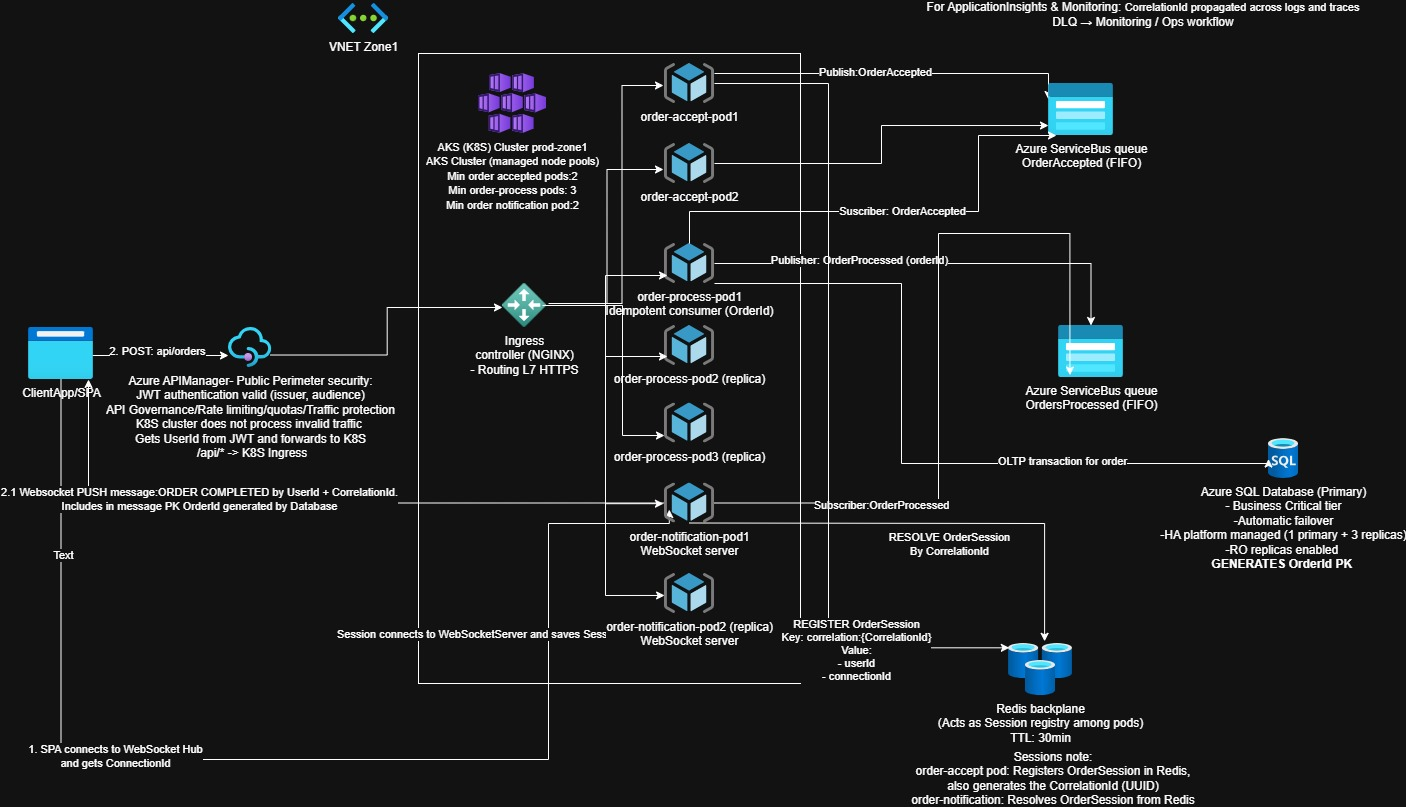
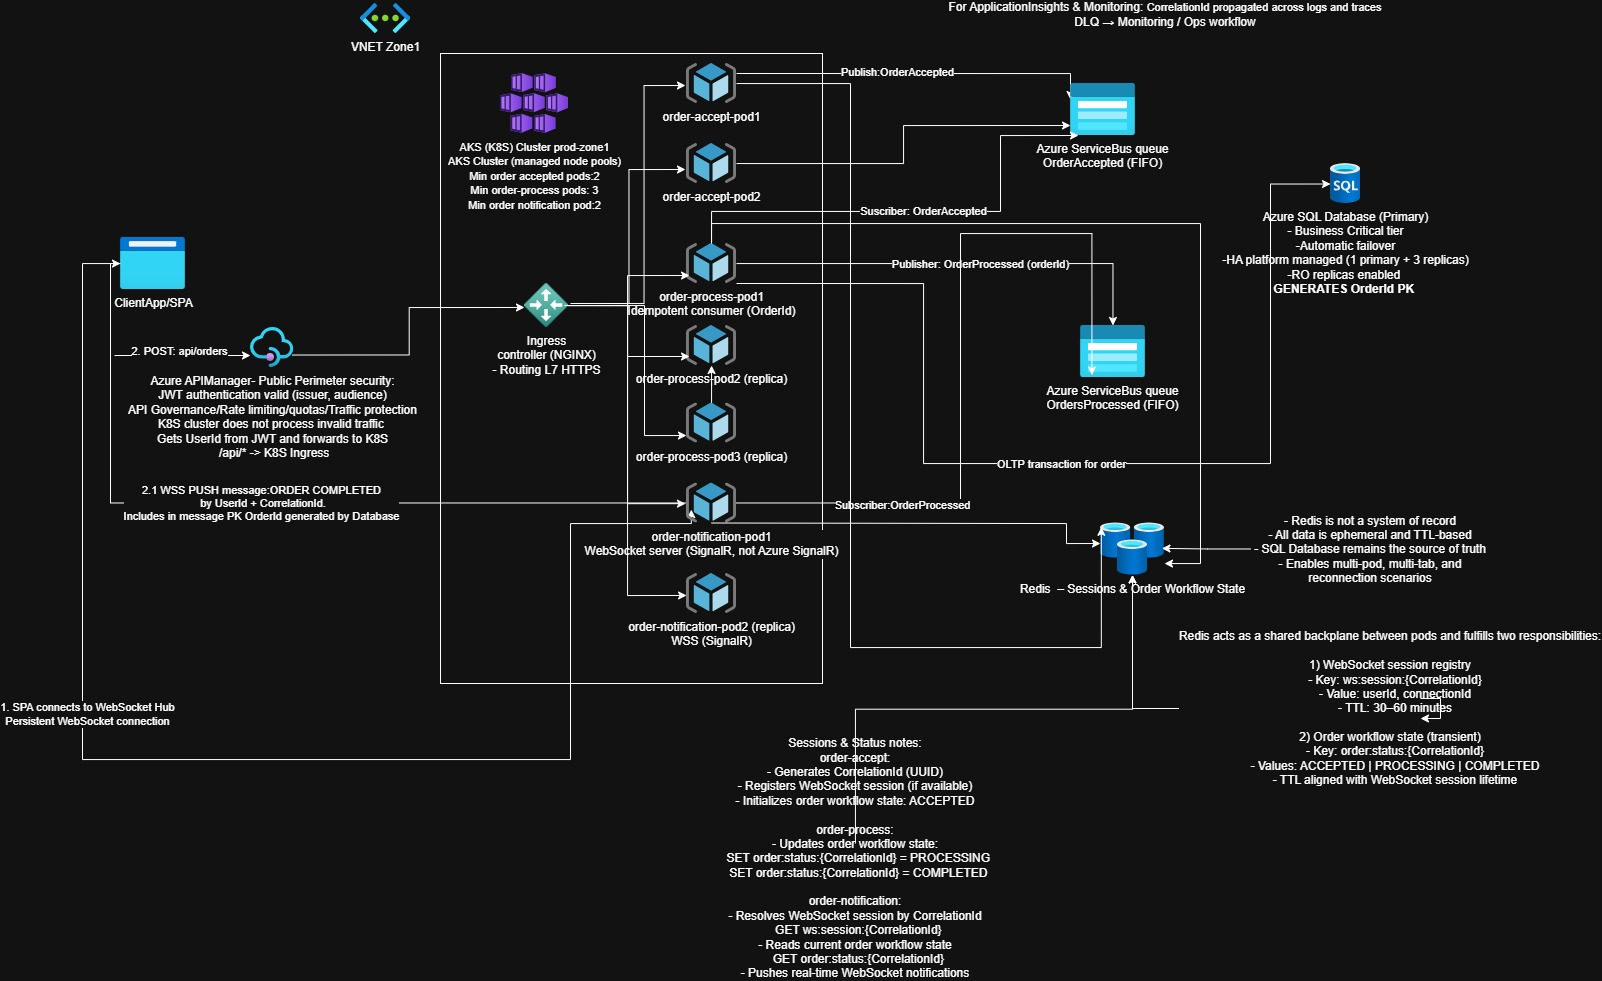
Improved documentation as for Redis, WSS and workflow status changes on orders

diff --git a/case-studies/k8s-websockets-apporders/decisions.md b/case-studies/k8s-websockets-apporders/decisions.md
@@ -1,7 +1,5 @@
 # Architecture and Design Decisions
 
----
-
 ## Asynchronous Processing Model
 
 ### Decision
@@ -50,35 +48,6 @@ All business authorization and routing logic remains inside the Kubernetes clust
 
 ---
 
-## Integration with External Identity Providers
-
-### Decision
-Decouple identity management from backend services and integrate authentication at the API gateway layer.
-
-### Rationale
-Azure API Management is **identity-provider agnostic** and supports validation of JWTs issued by any OAuth 2.0 / OpenID Connect–compliant provider.
-
-This allows the system to integrate with:
-- Cloud-native IdPs
-- Corporate identity platforms
-- Hybrid or multi-cloud identity solutions
-
-### Example Identity Providers
-Typical examples of compatible IdPs include:
-- Azure Active Directory / Entra ID
-- Keycloak
-- Auth0
-- Okta
-
-In all cases:
-- The IdP issues JWT access tokens
-- APIM validates token authenticity, issuer, and audience
-- User identity claims are forwarded to backend services
-
-The Identity Provider itself remains outside the scope of this architecture.
-
----
-
 ## Application Runtime
 
 ### Decision
@@ -92,6 +61,22 @@ Deploy all backend services on Azure Kubernetes Service.
 
 Only a single cluster is shown for conceptual clarity.  
 The architecture supports zonal and multi-cluster deployments without requiring logical changes.
+
+---
+
+## Order Workflow State Management
+
+### Decision
+Store short-lived order workflow state in Redis (ACCEPTED / PROCESSING / COMPLETED).
+
+### Rationale
+- WebSocket connections are transient by nature.
+- Users may open multiple browser tabs or reconnect at any time.
+- Order state must be consistently observable across all application instances.
+- Redis provides low-latency, shared state without introducing coupling between services.
+
+Redis is used only for **transient workflow state**, not as a system of record.
+The authoritative business state remains in the SQL database.
 
 ---
 
@@ -151,6 +136,35 @@ Adopt at-least-once delivery with defensive consumers.
 - Poison messages are isolated via dead-letter queues
 
 Dead-letter queues are treated as an operational concern and monitored separately.
+
+---
+
+## Integration with External Identity Providers
+
+### Decision
+Decouple identity management from backend services and integrate authentication at the API gateway layer.
+
+### Rationale
+Azure API Management is **identity-provider agnostic** and supports validation of JWTs issued by any OAuth 2.0 / OpenID Connect–compliant provider.
+
+This allows the system to integrate with:
+- Cloud-native IdPs
+- Corporate identity platforms
+- Hybrid or multi-cloud identity solutions
+
+### Example Identity Providers
+Typical examples of compatible IdPs include:
+- Azure Active Directory / Entra ID
+- Keycloak
+- Auth0
+- Okta
+
+In all cases:
+- The IdP issues JWT access tokens
+- APIM validates token authenticity, issuer, and audience
+- User identity claims are forwarded to backend services
+
+The Identity Provider itself remains outside the scope of this architecture.
 
 ---
 

diff --git a/case-studies/k8s-websockets-apporders/README.md b/case-studies/k8s-websockets-apporders/README.md
@@ -25,6 +25,7 @@ Contoso needs to build a backend platform capable of handling a large volume of 
 - Protection of backend systems from traffic spikes
 - Reliable, ordered, and idempotent processing
 - Real-time feedback to end users once processing completes
+- The system must allow users to retrieve the current order status at any time, regardless of browser tab, window, or WebSocket reconnection.
 
 The system must remain stable under load and tolerate retries, failures, and partial outages without impacting the user experience.
 
@@ -45,6 +46,7 @@ The system must remain stable under load and tolerate retries, failures, and par
 ### User Notification
 - Users receive a real-time notification when their order processing completes.
 - Notifications are delivered via WebSockets.
+- The service uses SignalR (self-hosted) for WebSocket management. Azure SignalR Service (PaaS) is intentionally not used to keep the architecture explicit and portable.
 
 ---
 
